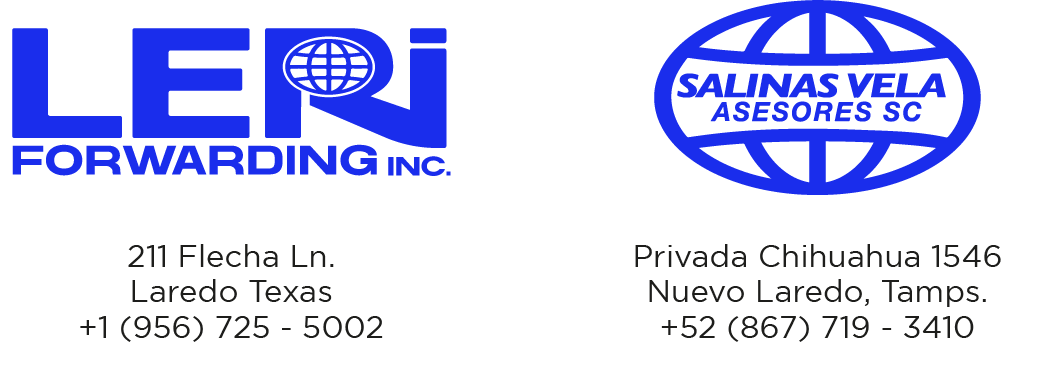
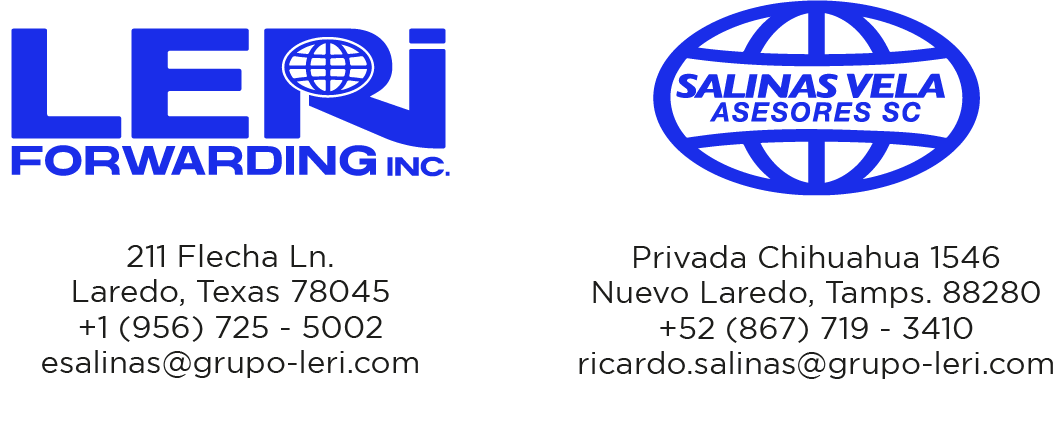
cambio contactos

diff --git a/index.html b/index.html
@@ -418,8 +418,9 @@
                 </div>
                 <div class=" col-3 d-flex ">
                     <div class= "row">
-                        <img class = "img-fluid pb-4" src = "assets/logoleri.png" >
-                        <p class = "display-6 text-center" style="font-size: 1.7rem">211 Flecha Ln.<br>Laredo Texas <br> +1 (956) 725 - 5002</p>
+                        <img class = "img-fluid pb-3" style = "height: 55%;" src = "assets/logoleri.png" >
+                        <p class = "display-6 text-center" style="font-size: 1.3rem">211 Flecha Ln.<br>Laredo, Tx. 78045  <br> +1 (956) 725 - 5002
+                        <br>ricardo.salinas@grupo-leri.com</p>
                     </div>
                 </div>
                 <div class="col-2 d-flex ">
@@ -427,7 +428,8 @@
                 <div class=" col-3 d-flex ">
                     <div class="row">
                         <img  class = "pb-3" style = "height: 55%;"src = "assets/logosva.png">
-                        <p class = "display-6 text-center" style="font-size: 1.7rem">Privada Chihuahua 1546<br>Nuevo Laredo Tamps <br> +52 (867) 719 - 3410</p>
+                        <p class = "display-6 text-center" style="font-size: 1.3rem">Privada Chihuahua 1546<br>Nuevo Laredo Tamps. 88240 <br> +52 (867) 719 - 3410
+                        <br>esalinas@grupo-leri.com</p>
                     </div>
                 </div>
                 <div class="col-2 d-flex ">
